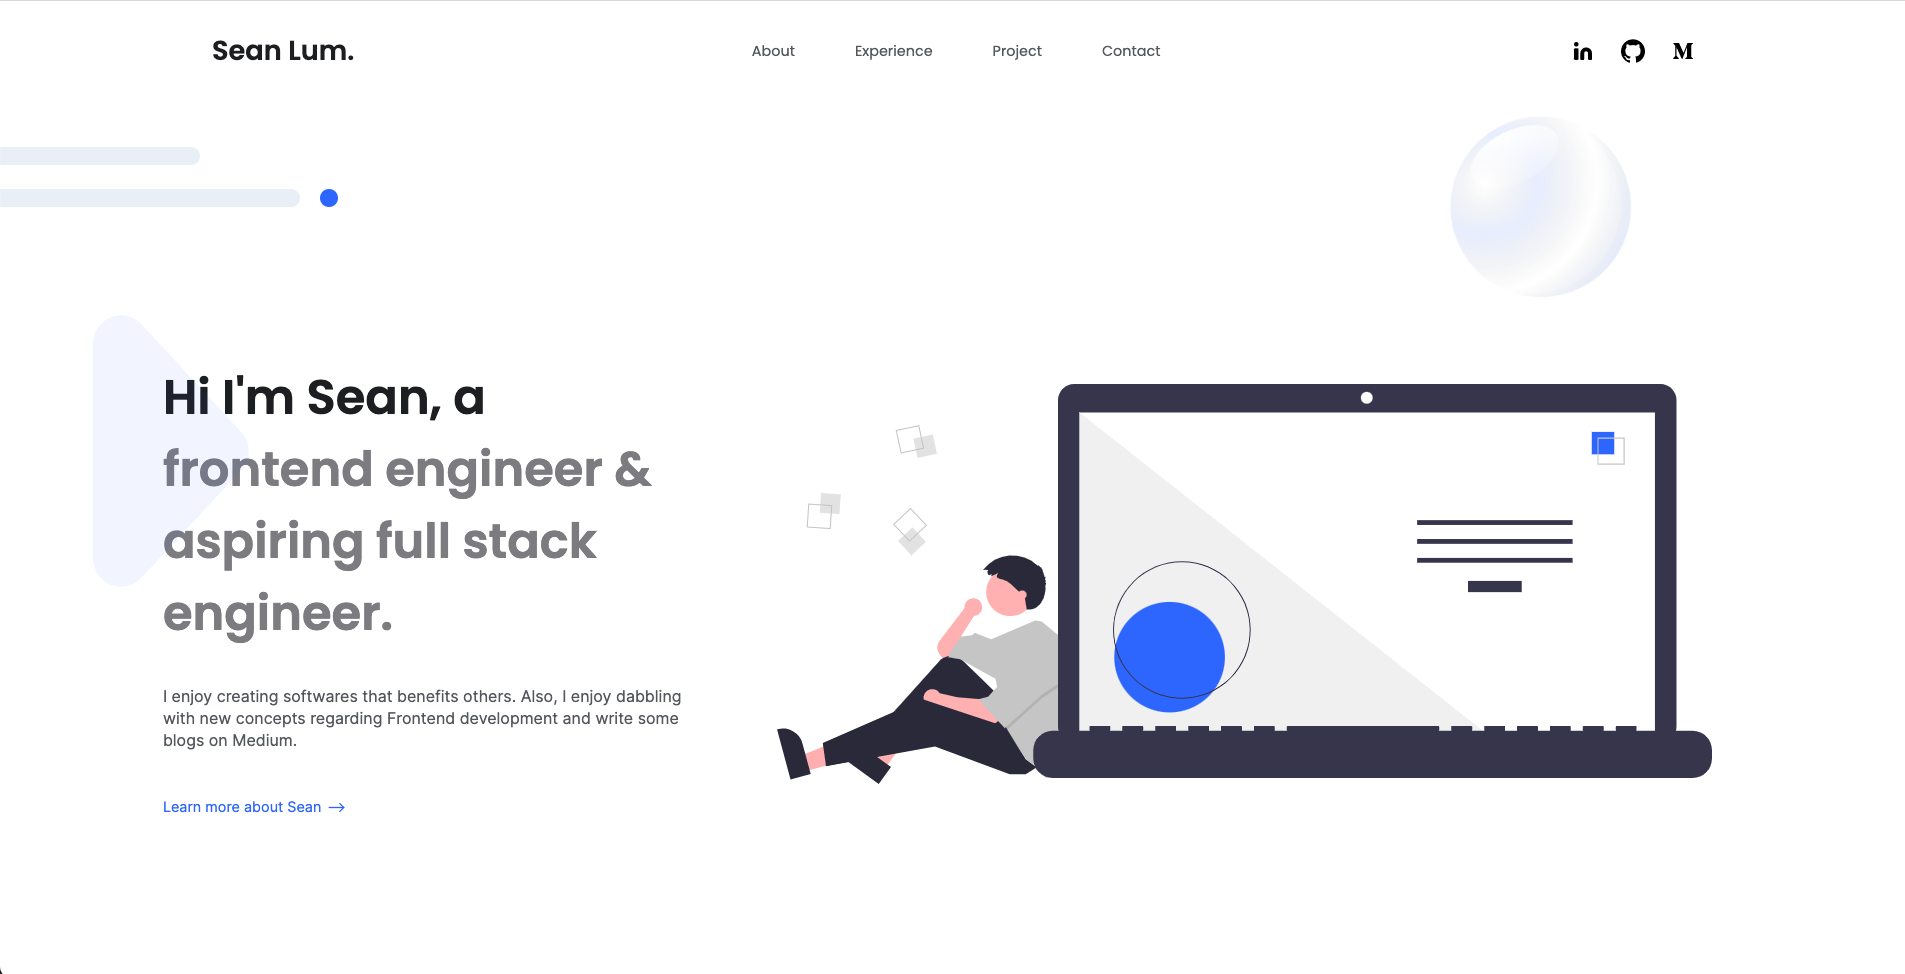
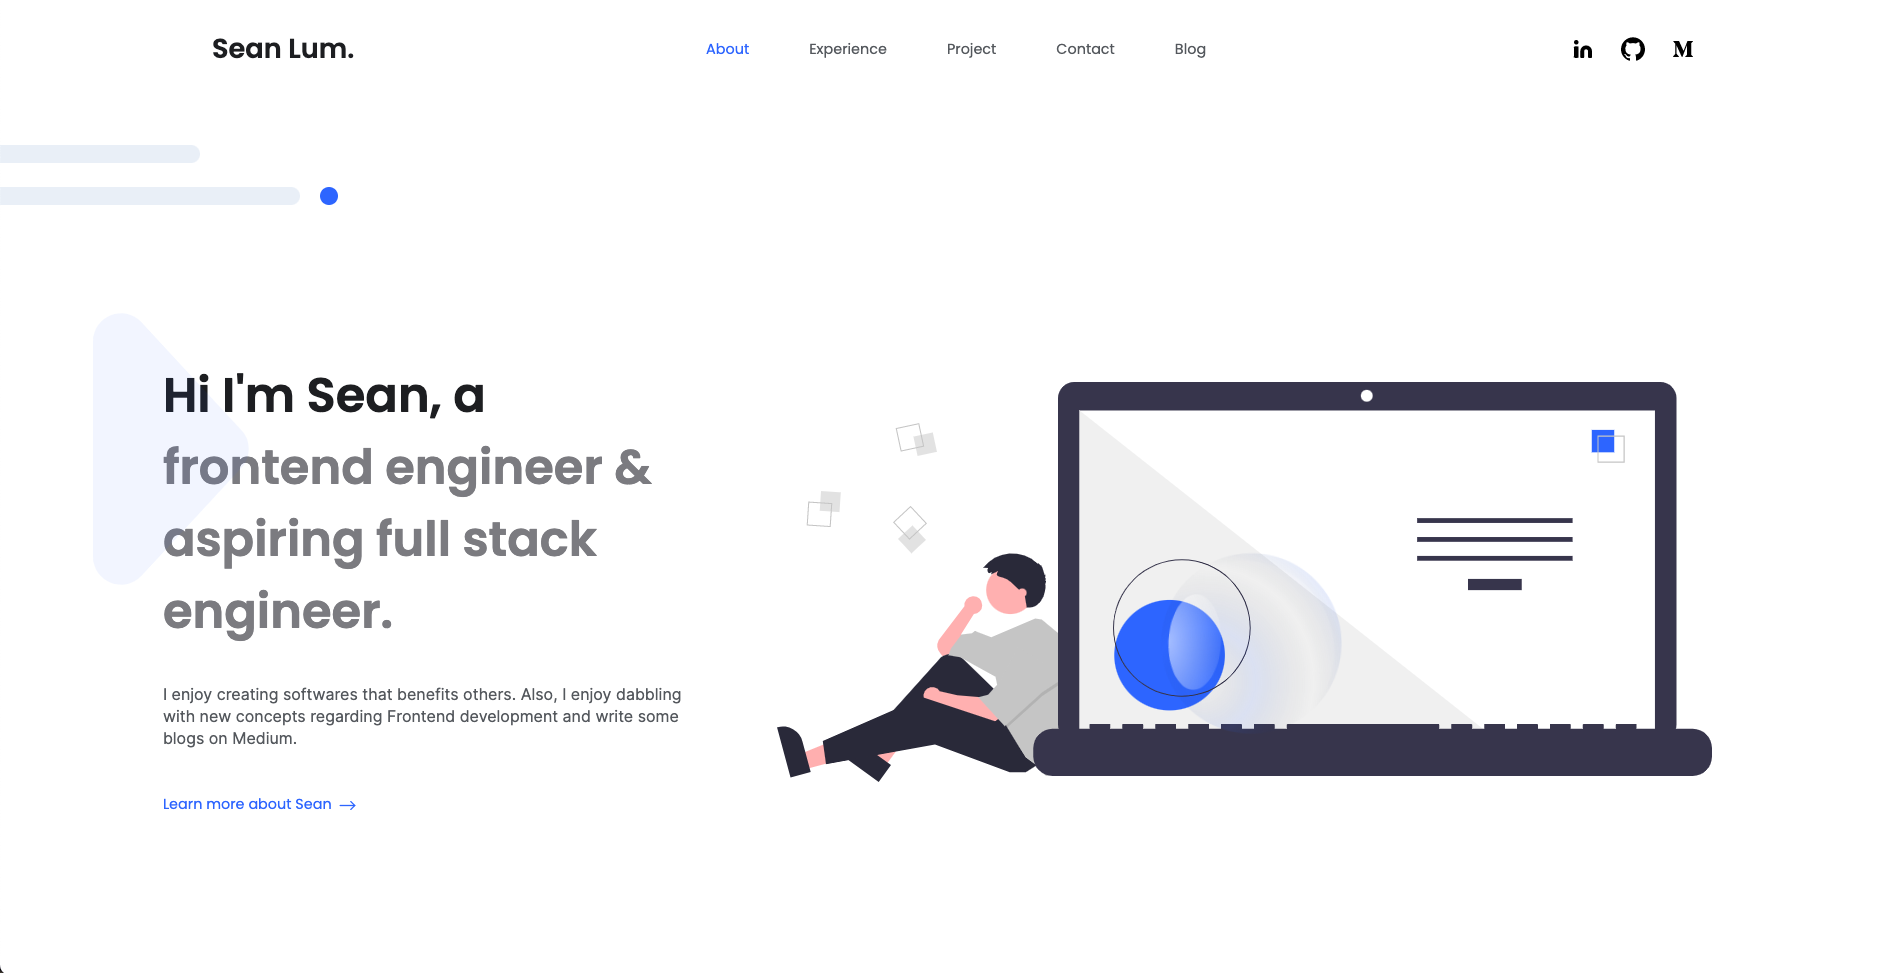
feat: update website

diff --git a/frontend/src/components/NavMenu/NavMenu.tsx b/frontend/src/components/NavMenu/NavMenu.tsx
@@ -1,5 +1,5 @@
-import { useState, useEffect } from "react";
-import { useNavigate } from "react-router-dom";
+import { useState, useEffect, Fragment } from "react";
+import { useLocation, useNavigate } from "react-router-dom";
 
 // hooks
 import { useWindowSize } from "@hooks";
@@ -15,15 +15,21 @@ import type { NavMenuTabsProps } from "./types";
 import "./NavMenu.scss";
 
 const tabs: NavMenuTabsProps[] = [
-  { href: "/About", name: "About", onClick: () => {} },
-  { href: "/Experience", name: "Experience", onClick: () => {} },
-  { href: "/Project", name: "Project", onClick: () => {} },
-  { href: "/Contact", name: "Contact", onClick: () => {} },
+  { href: "/About", name: "About", uuid: "about-key-special" },
+  { href: "/Experience", name: "Experience", uuid: "experience-key-special" },
+  { href: "/Project", name: "Project", uuid: "project-key-special" },
+  { href: "/Contact", name: "Contact", uuid: "contact-key-special" },
+  {
+    href: "https://blog.seanlumjy.com/",
+    name: "Blog",
+    uuid: "blog-key-special",
+  },
 ];
 
 const NavMenu = () => {
   const { width } = useWindowSize();
   const navigate = useNavigate();
+  const { pathname } = useLocation();
   const [click, setClick] = useState(false);
   const [isMounted, setIsMounted] = useState(true);
 
@@ -55,6 +61,8 @@ const NavMenu = () => {
     };
   }, []);
 
+  const toggleClick = () => setClick(!click);
+
   const handleClick = (href?: string) => {
     // when clicking on the link remove all defaults
     if (href) {
@@ -64,7 +72,7 @@ const NavMenu = () => {
     }
 
     // all other cases
-    setClick(!click);
+    toggleClick();
   };
 
   const setValuesBasedOnWidth = () => {
@@ -90,13 +98,26 @@ const NavMenu = () => {
         </nav>
         <div className={`dropdown-list ${!click ? "inactive" : "active"}`}>
           {tabs.map((tab) => (
-            <p
-              className="vertical-tab"
-              onClick={() => handleClick(tab.href)}
-              key={tab.href}
-            >
-              {tab.name}
-            </p>
+            <Fragment key={tab.uuid}>
+              {tab.name !== "Blog" ? (
+                <p
+                  className="vertical-tab"
+                  onClick={() => handleClick(tab.href)}
+                >
+                  {tab.name}
+                </p>
+              ) : (
+                <a
+                  className="vertical-tab"
+                  onClick={() => setClick(false)}
+                  target="_blank"
+                  rel="noopener noreferrer"
+                  href={tab.href}
+                >
+                  {tab.name}
+                </a>
+              )}
+            </Fragment>
           ))}
         </div>
       </>
@@ -111,18 +132,42 @@ const NavMenu = () => {
         </h1>
         <div className="horizontal-tabs">
           {tabs.map((tab) => (
-            <p
-              key={tab.href}
-              className="horizontal-tab"
-              onClick={() => handleClick(tab.href)}
-            >
-              {tab.name}
-            </p>
+            <Fragment key={tab.uuid}>
+              {tab.name !== "Blog" ? (
+                <p
+                  className={`horizontal-tab ${
+                    (pathname === tab.href ||
+                      (pathname === "/" && tab.href === "/About")) &&
+                    "tab-current"
+                  }`}
+                  onClick={() => handleClick(tab.href)}
+                >
+                  {tab.name}
+                </p>
+              ) : (
+                <a
+                  className={`horizontal-tab ${
+                    pathname === tab.href && "tab-current"
+                  }`}
+                  onClick={() => setClick(false)}
+                  target="_blank"
+                  rel="noopener noreferrer"
+                  href={tab.href}
+                >
+                  {tab.name}
+                </a>
+              )}
+            </Fragment>
           ))}
         </div>
         <div className="socials">
-          {links.map((l, i) => (
-            <a href={l.link} target="_blank" rel="noopener noreferrer" key={i}>
+          {links.map((l) => (
+            <a
+              href={l.link}
+              target="_blank"
+              rel="noopener noreferrer"
+              key={l.link}
+            >
               <RoundedButton icon={l.logo} onClick={() => {}} />
             </a>
           ))}

diff --git a/frontend/src/constants/Project.tsx b/frontend/src/constants/Project.tsx
@@ -14,6 +14,8 @@ import {
   charkraUiIcon,
   tailwindIcon,
   reduxIcon,
+  remixIcon,
+  hljsIcon,
 } from "../utils/Icons";
 
 import modulefuturelogo from "../images/ModuleFutureLogo.png";
@@ -22,12 +24,29 @@ import facebooklogo from "../images/facebook.svg";
 import internhunterlogo from "../images/InternHunter.png";
 import nusforumslogo from "../images/NUSForums.svg";
 import chatroomlogo from "../images/chatroomicon.svg";
+import snowflakelogo from "../images/snowflake.svg";
 
 import Keywords from "@commons/Keywords";
 
 import type { ProjectItemType } from "@types";
 
 export const allProjects: ProjectItemType[] = [
+  {
+    name: "Blog",
+    desc:
+      "This blog is for me to write about interesting projects I have done, tools that I have created and interesting concepts about Web Development I have learnt. Check out this blog!",
+    webLink: "https://blog.seanlumjy.com/",
+    stack: [reactIcon, typescriptIcon, remixIcon, tailwindIcon, hljsIcon],
+    logo: snowflakelogo,
+    logosize: "1.8em",
+    url: "https://www.youtube.com/watch?v=4dC2wt1UAS4",
+    developmentUrl:
+      "https://res.cloudinary.com/dhxecnaor/video/upload/v1652083992/BlogPV_y3kf33.mp4",
+    productionUrl:
+      "https://res.cloudinary.com/drqnfuqm1/video/upload/v1652084347/BlogPV_e9gdmx.mp4",
+    index: 0,
+    largedesc: "Personalize Blog",
+  },
   {
     name: "NUSForum",
     desc:
@@ -49,7 +68,7 @@ export const allProjects: ProjectItemType[] = [
       "https://res.cloudinary.com/dhxecnaor/video/upload/v1649841344/NUSForumPV_diis6m.mp4",
     productionUrl:
       "https://res.cloudinary.com/drqnfuqm1/video/upload/v1649875101/NUSForumPV_m2eaa8.mp4",
-    index: 0,
+    index: 1,
     largedesc: "Community based forum",
     prose: (
       <div>
@@ -74,7 +93,7 @@ export const allProjects: ProjectItemType[] = [
       "https://res.cloudinary.com/dhxecnaor/video/upload/v1649837395/SortAlgoPV_nilxrf.mp4",
     productionUrl:
       "https://res.cloudinary.com/drqnfuqm1/video/upload/v1649874993/SortAlgoPV_wnd4lg.mp4",
-    index: 1,
+    index: 2,
     largedesc: "Interactive algorithm visualizer",
     prose: (
       <div>
@@ -107,7 +126,7 @@ export const allProjects: ProjectItemType[] = [
       "https://res.cloudinary.com/dhxecnaor/video/upload/v1649841742/ModuleFuture_Promotional_Video_wprmw1.mp4",
     productionUrl:
       "https://res.cloudinary.com/drqnfuqm1/video/upload/v1649874995/ModuleFuture_Promotional_Video_njawfo.mp4",
-    index: 2,
+    index: 3,
     largedesc: "Native mobile app for planning",
     prose: (
       <div>
@@ -139,7 +158,7 @@ export const allProjects: ProjectItemType[] = [
       "https://res.cloudinary.com/dhxecnaor/video/upload/v1649872331/ChatroomPV_zmbhcl.mp4",
     productionUrl:
       "https://res.cloudinary.com/drqnfuqm1/video/upload/v1649874993/ChatroomPV_b8trez.mp4",
-    index: 3,
+    index: 4,
     largedesc: "Real-time Chatroom",
     prose: "Communication is never difficult anymore.",
     team: ["Sean Lum"],
@@ -158,7 +177,7 @@ export const allProjects: ProjectItemType[] = [
       "https://res.cloudinary.com/dhxecnaor/video/upload/v1649873760/FBClonePV_ujvalw.mp4",
     productionUrl:
       "https://res.cloudinary.com/drqnfuqm1/video/upload/v1649874993/FBClonePV_khmyny.mp4",
-    index: 4,
+    index: 5,
     largedesc: "Cloning facebook website",
     prose: "Mimics the looks of Facebook website.",
     team: ["Sean Lum"],
@@ -177,7 +196,7 @@ export const allProjects: ProjectItemType[] = [
       "https://res.cloudinary.com/dhxecnaor/video/upload/v1649874443/InternHunterPV_vejmqi.mp4",
     productionUrl:
       "https://res.cloudinary.com/drqnfuqm1/video/upload/v1649874993/InternHunterPV_e1nokp.mp4",
-    index: 5,
+    index: 6,
     largedesc: "Internship management app",
     prose: (
       <div>

diff --git a/frontend/src/components/Project/ProjectItem.tsx b/frontend/src/components/Project/ProjectItem.tsx
@@ -66,11 +66,13 @@ const ProjectItem = ({
               imgSrc={ARROWIMGBLUE}
             />
           </a>
-          <WordArrowButton
-            text="Details"
-            onClick={() => goToProject(name)}
-            imgSrc={ARROWIMGBLUE}
-          />
+          {name !== "Blog" && (
+            <WordArrowButton
+              text="Details"
+              onClick={() => goToProject(name)}
+              imgSrc={ARROWIMGBLUE}
+            />
+          )}
         </div>
         <div className="gif-styling">
           <Suspense fallback={<LoadingAnimation />}>
@@ -127,11 +129,13 @@ const ProjectItem = ({
               imgSrc={ARROWIMGBLUE}
             />
           </a>
-          <WordArrowButton
-            text="Details"
-            onClick={() => goToProject(name)}
-            imgSrc={ARROWIMGBLUE}
-          />
+          {name !== "Blog" && (
+            <WordArrowButton
+              text="Details"
+              onClick={() => goToProject(name)}
+              imgSrc={ARROWIMGBLUE}
+            />
+          )}
         </div>
         <div className="project-icon-holder">
           <IconList iconList={stack} />

diff --git a/frontend/src/utils/Icons.tsx b/frontend/src/utils/Icons.tsx
@@ -23,6 +23,8 @@ import charkrauiSVG from "../images/chakra_ui.jpeg";
 import webpackSVG from "../images/webpack.svg";
 import cypressSVG from "../images/cypress.svg";
 import tailwindSVG from "../images/tailwind.svg";
+import remixSVG from "../images/remix.png";
+import hljsPNG from "../images/hljs.png";
 
 import { skillsInfo } from "@types";
 
@@ -109,6 +111,18 @@ export const reactIcon = { icon: reactSVG, name: "React", width: "2.4em" };
 export const javascriptIcon = {
   icon: javaScriptSVG,
   name: "JavaScript",
+  width: "1.9em",
+};
+
+export const remixIcon = {
+  icon: remixSVG,
+  name: "Remix",
+  width: "2em",
+};
+
+export const hljsIcon = {
+  icon: hljsPNG,
+  name: "HighlightJS",
   width: "1.9em",
 };
 

diff --git a/frontend/src/components/NavMenu/NavMenu.scss b/frontend/src/components/NavMenu/NavMenu.scss
@@ -129,6 +129,15 @@
   background-color: c.$dropdown-hover-light;
 }
 
+.horizontal-tab,
+.vertical-tab {
+  text-decoration: none;
+}
+
+.tab-current {
+  color: c.$blue-primary !important;
+}
+
 @media only screen and (min-width: 860px) {
   .horizontal-tabs {
     display: flex;
@@ -160,6 +169,10 @@
     height: 1px;
     transition: all 0.4s;
     z-index: 999;
+  }
+
+  .horizontal-tab.tab-current::after {
+    background: c.$blue-primary !important;
   }
 
   .horizontal-tab:hover::after {

diff --git a/frontend/src/components/NavMenu/types.ts b/frontend/src/components/NavMenu/types.ts
@@ -1,5 +1,5 @@
 export interface NavMenuTabsProps {
   href: string;
   name: string;
-  onClick: (href?: string) => void;
+  uuid: string;
 }
